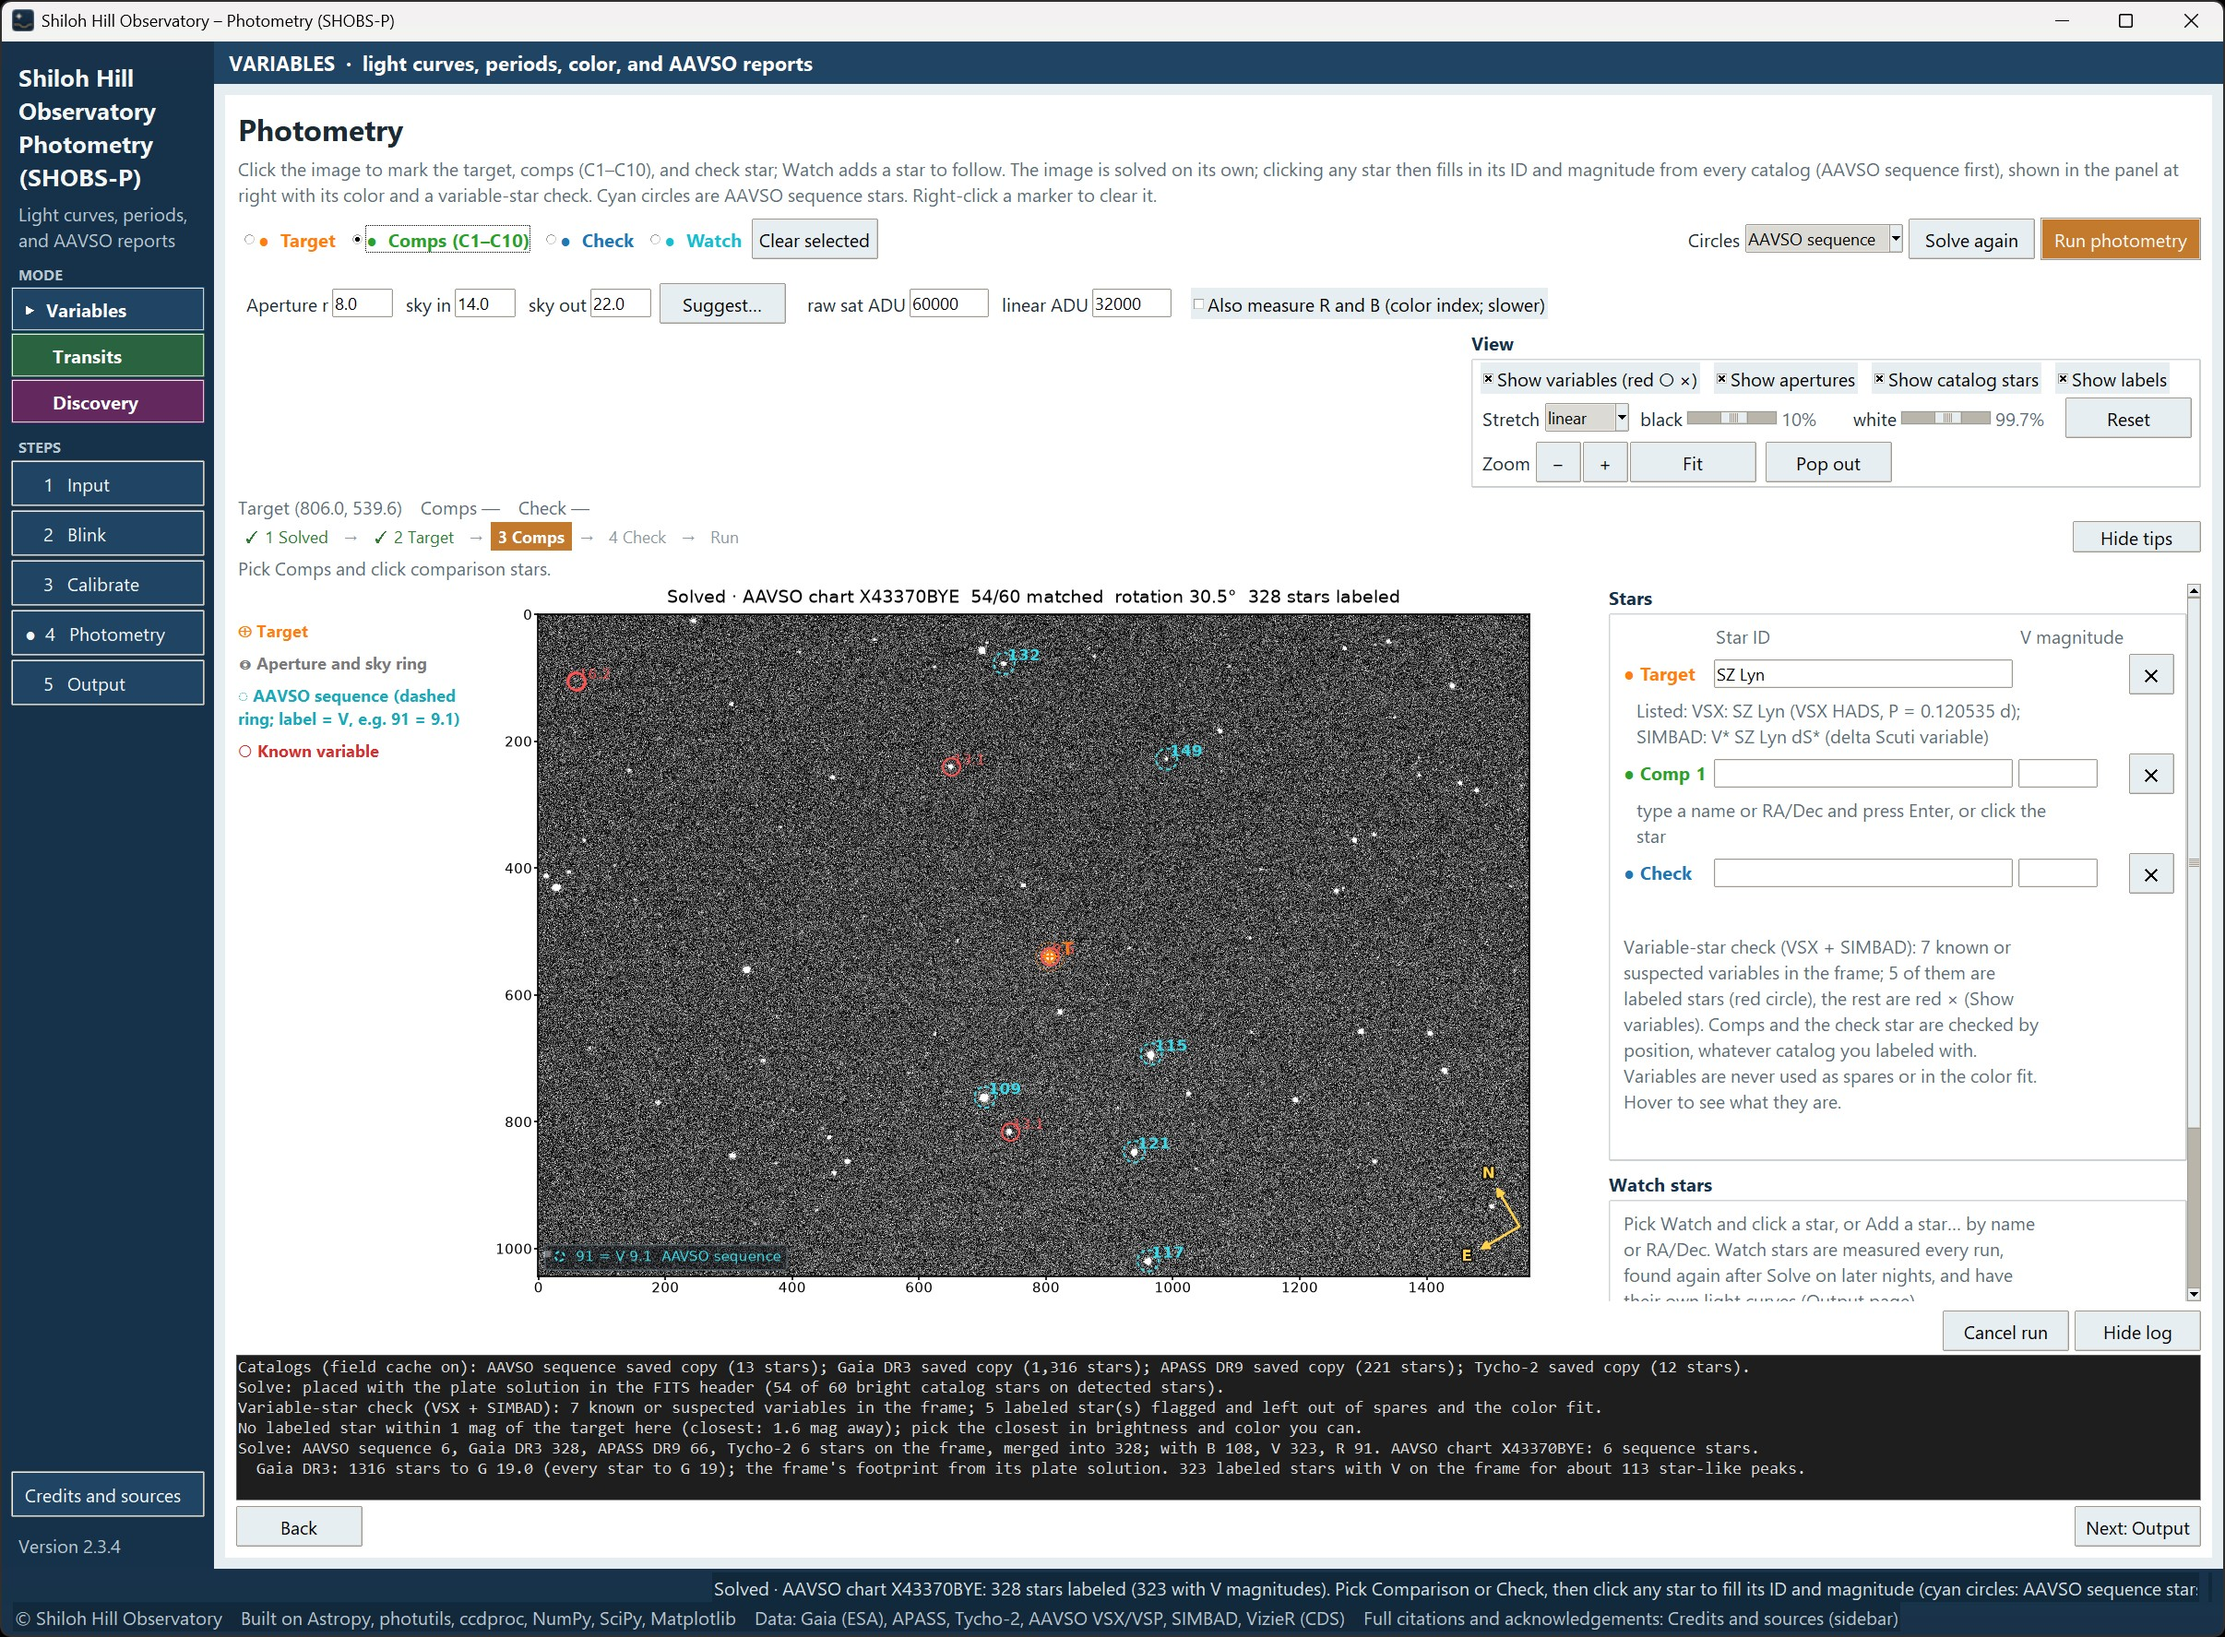
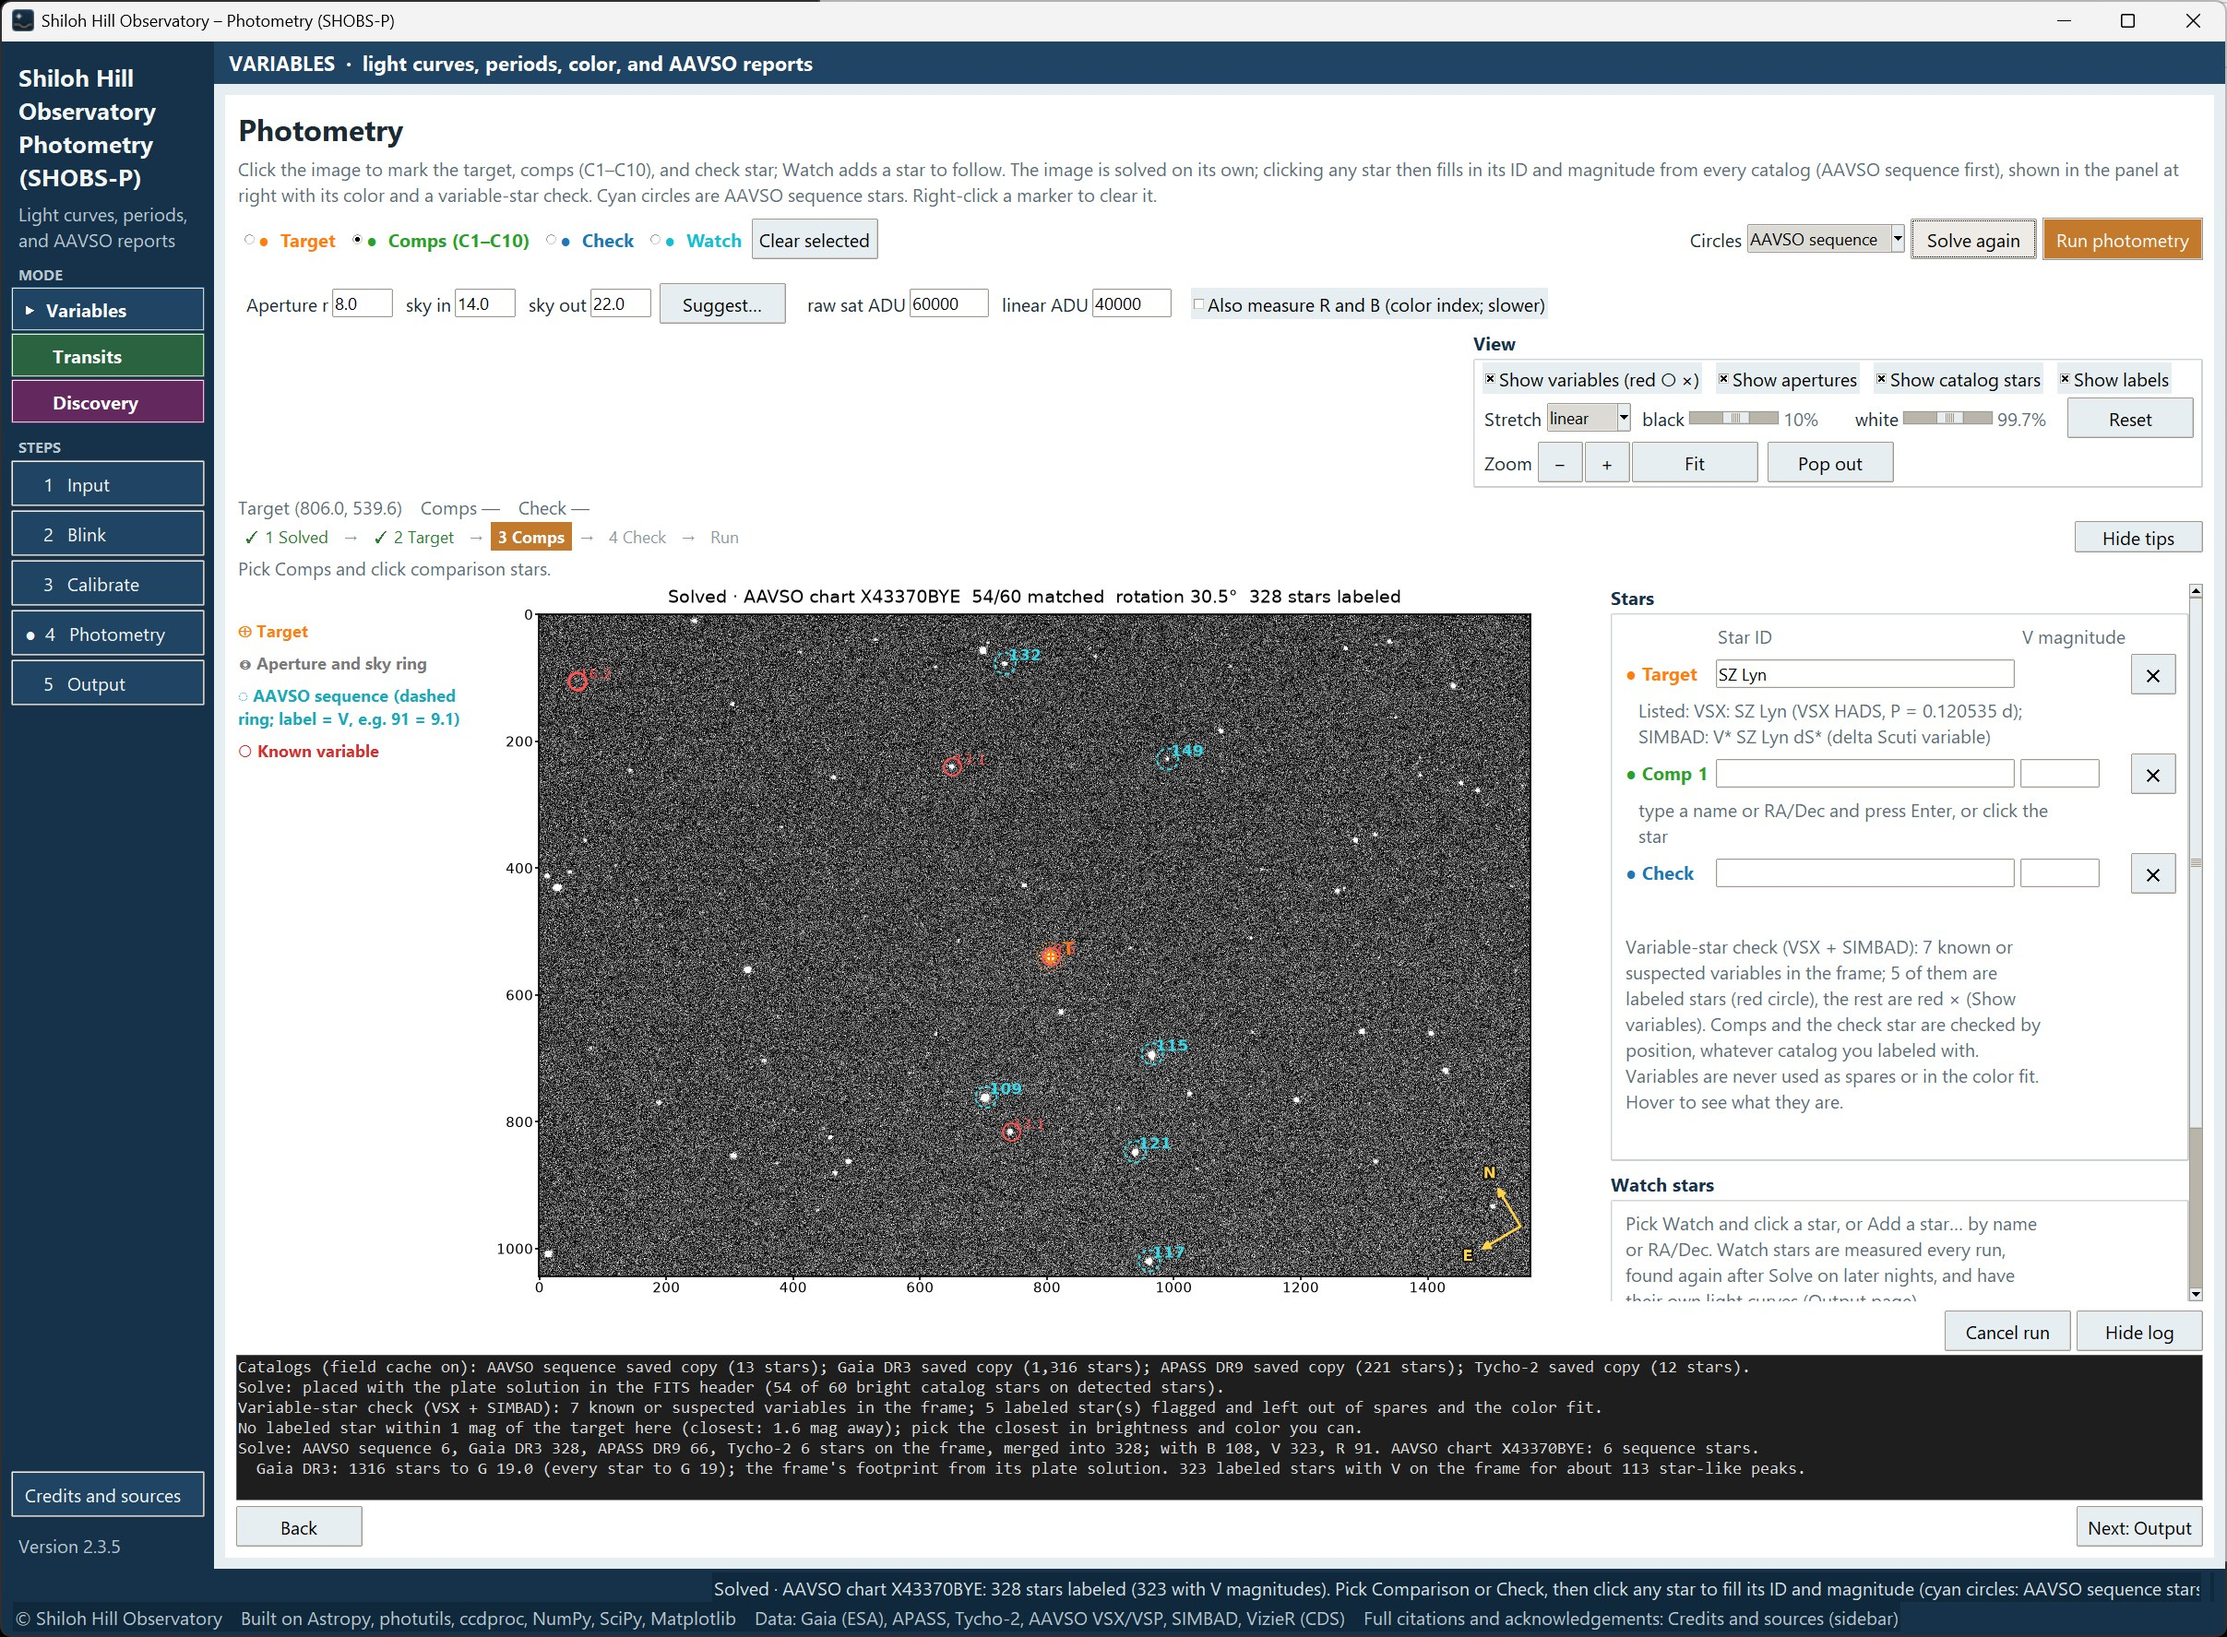
2.3.5: reshoot 08-photometry-solved and 09-marked-stars (in-image marker key removed); reshoot list updated
Claude-Session: https://claude.ai/code/session_01FUz9tJmG7rA2zhpap7rpn6

diff --git a/docs/manual/_reshoots_235.md b/docs/manual/_reshoots_235.md
@@ -8,7 +8,7 @@ and self-test console lines, none of which the manual's shots show).
 
 | Shot | Shows the key? | Action |
 |---|---|---|
-| img/08-photometry-solved.jpg | yes (bottom left) | reshoot: SZ Lyn as before (new reduction, Bin 2, r 8/14/22, Comps step) |
-| img/09-marked-stars.jpg | yes (bottom left) | reshoot: SZ Lyn, comps 109/115/117 + check 121 as before |
+| img/08-photometry-solved.jpg | yes (bottom left) | RESHOT 14 Nov 12:14 (2414×1775, example site) |
+| img/09-marked-stars.jpg | yes (bottom left) | RESHOT 14 Nov 12:15 (Solve again after marking, clean log) |
 | img/08-popout-window.jpg | no (zoomed in, key out of view) | reused |
 | 20-discovery-*.jpg / .png | no (Discovery never drew it) | reused |
